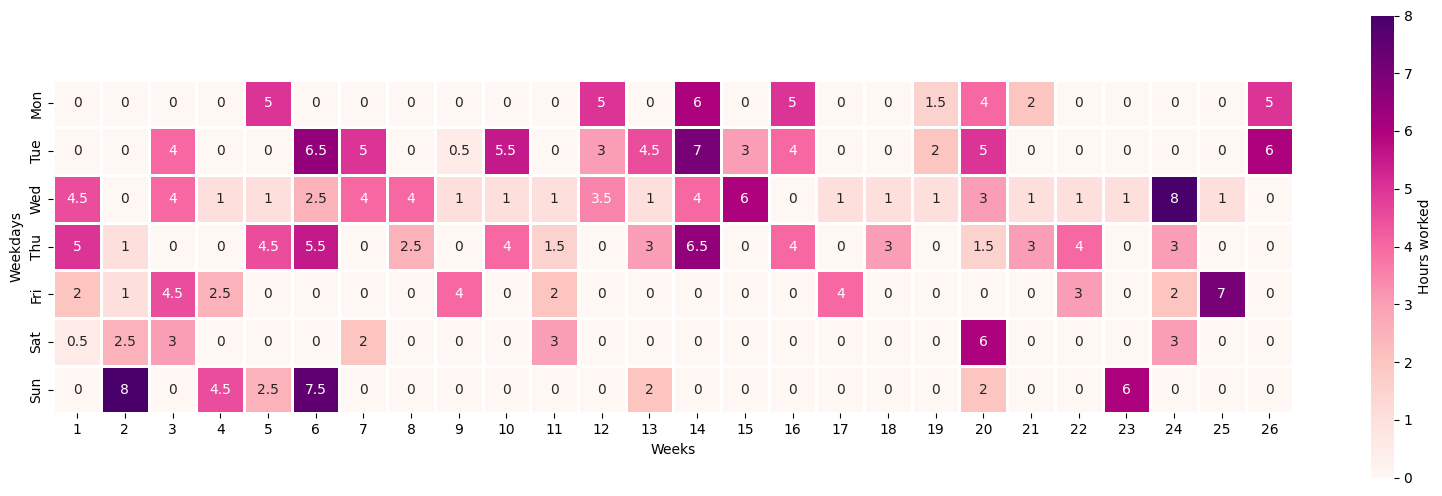
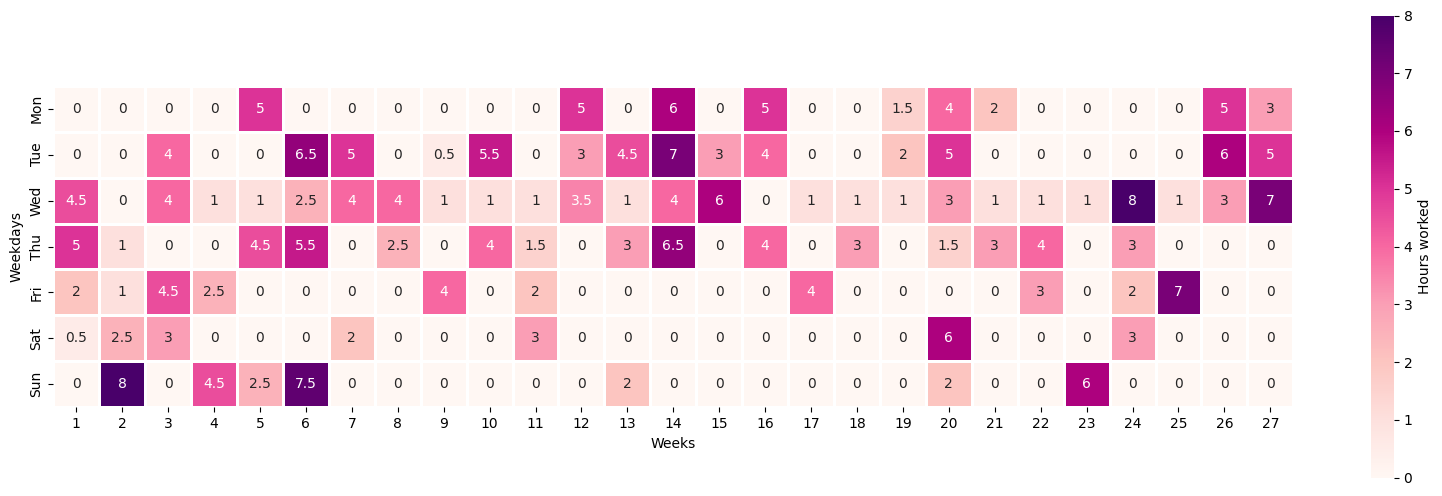
update timelog

diff --git a/timelog.md b/timelog.md
@@ -489,3 +489,23 @@
 ### 15 Mar 2022
 
 * *6 hours* Writing up the first draft of the dissertation, going through it and making sure it flows-ish.
+
+### 16 Mar 2022
+
+* *3 hours* Going over draft and making minor corrections
+
+## Week 27
+
+### 21 Mar 2022
+
+* *3 hours* started making the presentation
+
+### 22 Mar 2022
+
+* *5 hours* finished presentation and recorded it
+
+### 23 Mar 2022
+
+* *2 hours* going through the submission instructions and the master template to figure out what needs to be submitted and where
+* *3 hours* making changes to the code and general clean-up of source files
+* *2 hours* assembling source files for submission
